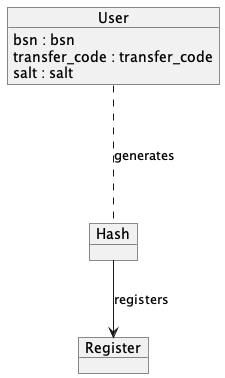
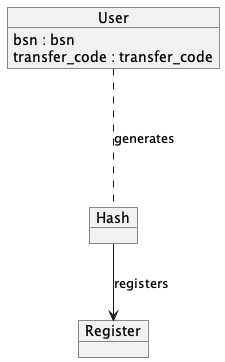
Remove salt from hash calculation and documentation
The salt used in calculating 'published_hash' has been removed from the transfer_code.puml and Localization.md files.

diff --git a/Localization/Localization.md b/Localization/Localization.md
@@ -30,12 +30,10 @@ Finding where data op patients in the network resides is a complex challenge. On
 The main principle is that a user that is published on the network gets a `transfer code` or `sharing code` that unlocks the discoverability of the person on the network. The main principle works like this:
 
 ```javascript
- published_hash = hash(salt + social_security_number + transfer_code)
+ published_hash = hash(social_security_number + transfer_code)
 ```
 
-The `published_hash` and `salt` is shared in the public registers. Only systems that have access to the `transfer code`, `bsn`, and `salt` are able to calculate the published_hash and query for the user. Systems or users that intercept the `published_hash` and `salt` can't link this to actual personal data.
-
-The `salt` is added to the hash in order to prevent a fairly simple rainbow table attack on BSN.
+The `published_hash` is shared in the public registers. Only systems that have access to the `transfer code` and `bsn` are able to calculate the published_hash and query for the user. Systems or users that intercept the `published_hash` can't link this to actual personal data.
 
 ![transfer_code.png](transfer_code.png)
 
@@ -43,7 +41,7 @@ The `salt` is added to the hash in order to prevent a fairly simple rainbow tabl
 
 With the basic concept in place, the localization service registers the following `patient data entries`:
 
-- The values `published_hash` and `salt`.
+- The value `published_hash`.
 - Related profile, such as `ACP`.
 - The identification of the data owner, probably the did:web.
 
